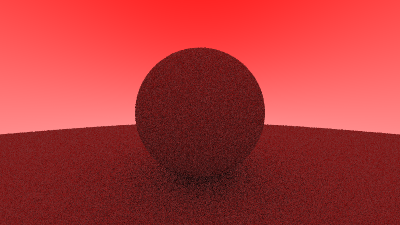
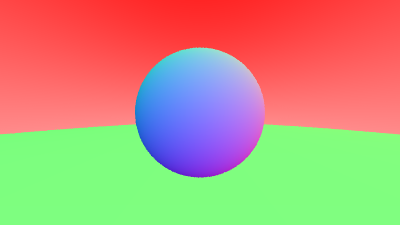
Implement Vec3Array, PointArray, RayArray instead of Vec3, Point, Ray

diff --git a/src/geom.py b/src/geom.py
@@ -2,84 +2,76 @@ from __future__ import annotations
 from math import sqrt
 from dataclasses import dataclass
 import random
+import numpy as np
+import numpy.typing as npt
 
+type FloatArray = npt.NDArray[np.float64]
+
+""" Class for operating on a bunch of vectors at the same time.
+"""
 @dataclass
-class Vec3:
-    x: float = 0.0
-    y: float = 0.0
-    z: float = 0.0
-
-    """Returns the uniformly distributed vector on a unit sphere.
-       The returned vector is a unit vector.
+class Vec3Array:
+    """ Invariants:
+        * x.ndim == y.ndim == z.ndim == 1
+        * x.size == y.size == z.size
     """
-    @staticmethod
-    def random_on_unit_sphere() -> Vec3:
-        x, y, z, l = 0.0, 0.0, 0.0, 0.0
-        while l == 0.0:
-            x = random.gauss(0, 1)
-            y = random.gauss(0, 1)
-            z = random.gauss(0, 1)
-            l = sqrt(x*x + y*y + z*z)
-        return Vec3(x/l, y/l, z/l)
-    
-    """Returns the uniformly distributed vector on a unit sphere in the same hemisphere as vector `v`.
-       Note: `v` is not required to be a unit vector.
-       The returned vector is a unit vector.
-    """
-    @staticmethod
-    def random_on_unit_hemisphere(v: Vec3) -> Vec3:
-        r = Vec3.random_on_unit_sphere()
-        if v @ r > 0.0:
-            return r
-        else:
-            return -r
-    
-    def __neg__(self) -> Vec3:
-        return Vec3(-self.x, -self.y, -self.z)
+    x: FloatArray
+    y: FloatArray
+    z: FloatArray
+   
+    def __neg__(self) -> Vec3Array:
+        return Vec3Array(-self.x, -self.y, -self.z)
 
-    def __add__(self, v: Vec3) -> Vec3:
-        return Vec3(self.x + v.x, self.y + v.y, self.z + v.z)
+    def __add__(self, v: Vec3Array) -> Vec3Array:
+        return Vec3Array(self.x + v.x, self.y + v.y, self.z + v.z)
 
-    def __sub__(self, v: Vec3) -> Vec3:
-        return Vec3(self.x - v.x, self.y - v.y, self.z - v.z)
+    def __sub__(self, v: Vec3Array) -> Vec3Array:
+        return Vec3Array(self.x - v.x, self.y - v.y, self.z - v.z)
 
-    def __mul__(self, t: float) -> Vec3:
-        return Vec3(self.x * t, self.y * t, self.z * t)
+    def __mul__(self, t: FloatArray) -> Vec3Array:
+        return Vec3Array(self.x * t, self.y * t, self.z * t)
 
-    def __truediv__(self, t: float) -> Vec3:
+    def __truediv__(self, t: FloatArray) -> Vec3Array:
         return self * (1 / t)
 
-    def __matmul__(self, v: Vec3) -> float:
+    def __matmul__(self, v: Vec3Array) -> FloatArray:
         return self.x * v.x + self.y * v.y + self.z * v.z
 
-    def len(self) -> float:
-        return sqrt(self.len_squared())
+    def len(self) -> FloatArray:
+        return np.sqrt(self.len_squared())
 
-    def len_squared(self) -> float:
+    def len_squared(self) -> FloatArray:
         return self.x * self.x + self.y * self.y + self.z * self.z
      
-    def unit(self) -> Vec3:
+    def unit(self) -> Vec3Array:
         return self / self.len()
 
-    def point(self) -> Point:
-        return Point(self.x, self.y, self.z)
+    def point_array(self) -> PointArray:
+        return PointArray(self.x, self.y, self.z)
 
 @dataclass
-class Point(Vec3):
+class PointArray(Vec3Array):
+    """ Invariants:
+        * x.ndim == y.ndim == z.ndim == 1
+        * x.size == y.size == z.size
+    """      
     pass
 
-    @staticmethod
-    def from_(v: Vec3) -> Point:
-        return Point(v.x, v.y, v.z)
 
 @dataclass
-class Ray:
-    origin: Point
-    direction: Vec3
+class RayArray:
+    """ Invariants:
+        * origin.x.size == direction.x.size
+        * origin.y.size == direction.y.size
+        * origin.z.size == direction.z.size
+        * PointArray invariants for origin
+        * Vec3Array invariants for direction
+    """
+    origin: PointArray
+    direction: Vec3Array
     
-    def at(self, t: float) -> Point:
-        return Point.from_(self.direction * t + self.origin)
-
+    def at(self, t: FloatArray) -> PointArray:
+        return (self.direction * t + self.origin).point_array()
 
 @dataclass
 class Interval:

diff --git a/src/test.py b/src/test.py
@@ -1,26 +1,33 @@
 import unittest
-from geom import Vec3, Interval
+from geom import Vec3Array, Interval
 import random
+import numpy as np
+import numpy.typing as npt
 
-class TestVec3(unittest.TestCase):
+type FloatArray = npt.NDArray[np.float64]
+
+class TestVec3Array(unittest.TestCase):
     def test_add_matmul(self) -> None:
-        v: Vec3 = Vec3(1.0, 2.0, 3.0)
-        w: Vec3 = Vec3(3.0, 2.0, 1.0)
-        z: Vec3 = v + w
-        s: float = v @ w
-        self.assertEqual(z, Vec3(4.0, 4.0, 4.0))
-        self.assertEqual(s, 10.0)
+        arr = np.array
+        v: Vec3Array = Vec3Array(arr([1.0]), arr([2.0]), arr([3.0]))
+        w: Vec3Array = Vec3Array(arr([3.0]), arr([2.0]), arr([1.0]))
+        z: Vec3Array = v + w
+        s: FloatArray = v @ w
+        self.assertEqual(z, Vec3Array(arr([4.0]), arr([4.0]), arr([4.0])))
+        self.assertEqual(s, arr([10.0]))
 
+    """
     def test_random_on_unit_sphere(self) -> None:
         random.seed(1)
-        v: Vec3 = Vec3.random_on_unit_sphere()
+        v: Vec3Array = Vec3Array.random_on_unit_sphere()
         self.assertAlmostEqual(1.0, v.len())
 
     def test_random_on_unit_hemisphere(self) -> None:
         random.seed(2)
-        v: Vec3 = Vec3(1.0, 0.0, 0.0)
-        w: Vec3 = Vec3.random_on_unit_hemisphere(v)
+        v: Vec3Array = Vec3Array(1.0, 0.0, 0.0)
+        w: Vec3Array = Vec3Array.random_on_unit_hemisphere(v)
         self.assertTrue(v @ w >= 0.0)
+    """
 
 class TestInterval(unittest.TestCase):
     def test_empty_contains(self) -> None:

diff --git a/src/sphere.py b/src/sphere.py
@@ -1,14 +1,16 @@
 from dataclasses import dataclass
 from geom import *
 from hit import *
-from math import sqrt
+import numpy as np
+
+FARAWAY = 1.0e9
 
 @dataclass
 class Sphere(Hittable):
     center: Point
     radius: float
     
-    def hit(self, r: Ray, i: Interval) -> Optional[HitRecord]:
+    def hit(self, r: Ray) -> float:
         orig = r.origin
         dir = r.direction
         OC = self.center - orig
@@ -17,27 +19,7 @@ class Sphere(Hittable):
         B = -2.0 * (OC @ dir)
         C = OC.len_squared() - self.radius * self.radius
         D = B*B - 4*A*C
-
-        if D < 0:
-            return None
-        sqrt_d = sqrt(D)
-
-        """Returning minimum time t that is in (tMin, tMax) range.
-        """
-        t1 = (-B - sqrt_d) / (2 * A)
-        t2 = (-B + sqrt_d) / (2 * A)
         
-        t: float
-        if i.surrounds(t1):
-            t = t1
-        elif i.surrounds(t2):
-            t = t2
-        else:
-            return None
-
-        p: Point = r.at(t)
-        outward_normal: Vec3 = (p - self.center).unit()
-        front_face: bool = (r.direction @ outward_normal) <= 0.0
-        normal: Vec3 = outward_normal if front_face else -outward_normal
-
-        return HitRecord(p, normal, t, front_face)
+        t1: float = np.where(D >= 0, (-B - np.sqrt(D)) / (2 * A), FARAWAY)
+        t2: float = np.where(D >= 0, (-B - np.sqrt(D)) / (2 * A), FARAWAY)
+        return np.where(t1 < t2, t1, t2)

diff --git a/src/camera.py b/src/camera.py
@@ -1,6 +1,8 @@
 from util import *
 from hit import *
 
+FARAWAY = 1.0e9
+
 class Camera:
     image_width: int
     image_height: int
@@ -35,15 +37,13 @@ class Camera:
     def ray_color(self, r: Ray, world: Hittable, depth: int) -> Color:
         if depth <= 0:
             return Color(0.0, 0.0, 0.0)
+        
+        
 
         hr: Optional[HitRecord] = world.hit(r, Interval(0.0001, float('inf')))
         if hr is not None:
             normal = hr.normal
-            random_vector = Vec3.random_on_unit_hemisphere(normal)
-            
-            return self.ray_color(Ray(hr.p, random_vector), world, depth - 1) \
-                   * 1/2
-            # return 1/2 * Color(normal.x + 1.0, normal.y + 1.0, normal.z + 1.0)
+            return Color(normal.x + 1.0, normal.y + 1.0, normal.z + 1.0) / 2
 
         unit_dir: Vec3 = r.direction.unit()
 
